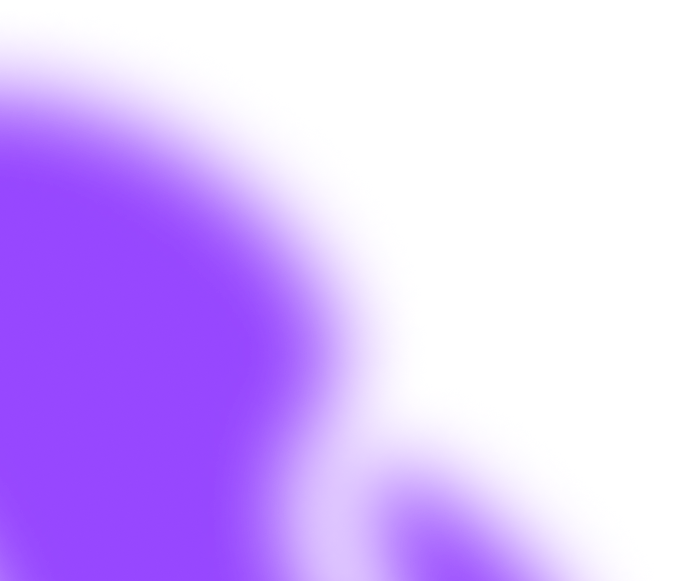
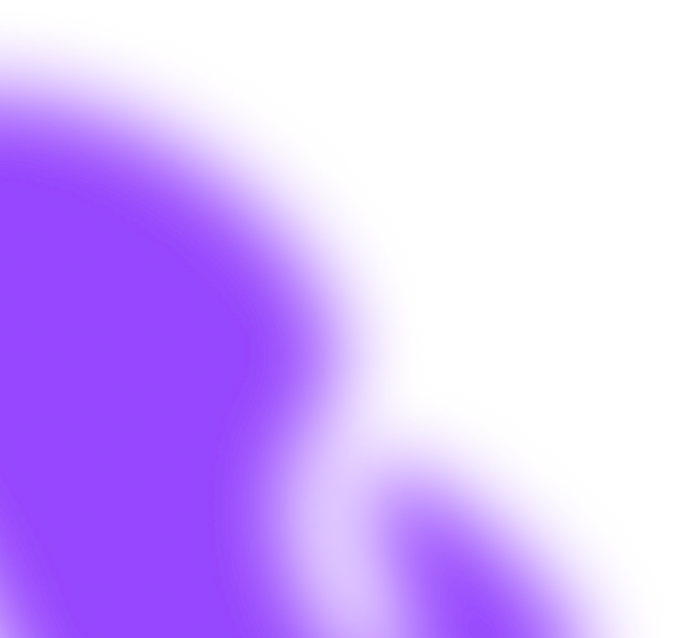
responsive update

diff --git a/src/app/portfolio-head/portfolio-head.component.scss b/src/app/portfolio-head/portfolio-head.component.scss
@@ -56,7 +56,7 @@ section {
 
 .green-shadow3 {
     position: absolute;
-    top: 1250px;
+    top: 1500px;
     right: 0;
 }
 
@@ -79,9 +79,7 @@ section {
     }
 
     .green-shadow3 {
-        height: 600px;
         top: 1300px;
-        right: 0;
     }
 }
 
@@ -123,6 +121,23 @@ section {
             margin: 0 25px;
             text-align: center;
         }
+    }
+
+    .purple-shadow3 {
+        width: 450px;
+        height: 450px;
+        position: absolute;
+        filter: blur(20px);
+        top: 1360px;
+        left: -40px;
+        pointer-events: none;
+    }
+    
+    .green-shadow3 {
+        height: 550px;
+        position: absolute;
+        top: 2170px;
+        right: 0;
     }
 }
 
@@ -176,20 +191,18 @@ section {
     }
 
     .purple-shadow3 {
-        width: 342px;
-        height: 342px;
-        position: absolute;
-        filter: blur(20px);
-        top: 1300px;
+        width: 430px;
+        height: 430px;
+        top: 1430px;
         left: 50%;
         transform: translateX(-50%);
-        pointer-events: none;
+        overflow: hidden;
     }
     
     .green-shadow3 {
-        height: 429px;
+        height: 430px;
         position: absolute;
-        top: 1760px;
+        top: 2500px;
         right: 0;
     }
 }

diff --git a/src/app/privacy-policy/privacy-policy.component.html b/src/app/privacy-policy/privacy-policy.component.html
@@ -21,8 +21,8 @@
     <p>Sie können sich jederzeit mit einer Beschwerde an eine Aufsichtsbehörde wenden, z. B. an die zuständige
         Aufsichtsbehörde des Bundeslands Ihres Wohnsitzes oder an die für uns als verantwortliche Stelle zuständige
         Behörde.</p>
-    <p>Eine Liste der Aufsichtsbehörden (für den nichtöffentlichen Bereich) mit Anschrift finden Sie unter: <a
-            href="https://www.bfdi.bund.de/DE/Service/Anschriften/Laender/Laender-node.html" target="_blank"
+    <p>Eine Liste der Aufsichtsbehörden (für den nichtöffentlichen Bereich) mit Anschrift finden Sie unter: <a class="bfdi-link"
+            href="https://www.bfdi.bund.de/DE/Service/>Anschriften/Laender/Laender-node.html" target="_blank"
             rel="noopener nofollow">https://www.bfdi.bund.de/DE/Service/Anschriften/Laender/Laender-node.html</a>.</p>
     <p></p>
     <h2>Erfassung allgemeiner Informationen beim Besuch unserer Website</h2>

diff --git a/src/app/footer/footer.component.scss b/src/app/footer/footer.component.scss
@@ -58,7 +58,7 @@ section {
 .codedby {
     color: white;
     font-size: 23px;
-    font-weight: 400px;
+    font-weight: 400;
 }
 
 .media-buttons {
@@ -76,6 +76,12 @@ section {
         &:hover {
             transform: scale(1.4);
         }
+    }
+}
+
+@media (max-width: 1200px) {
+    .codedby {
+        font-size: 16px;
     }
 }
 
@@ -110,18 +116,14 @@ section {
         justify-content: center;
         width: 100%;
         position: relative;
-        top: -40px;
+        top: -90px;
+        font-size: 23px;
     }
 
     .media-buttons {
         margin-right: 0;
         position: relative;
-        top: -75px;
-    }
-}
-
-@media (max-width: 1200px) {
-    .codedby {
-        font-size: 16px;
+        top: -125px;
+        height: max-content;
     }
 }

diff --git a/src/app/contact/contact.component.scss b/src/app/contact/contact.component.scss
@@ -319,7 +319,7 @@ section {
     overflow: hidden;
     position: absolute;
     left: 0;
-    top: 4880px;
+    top: 5200px;
     z-index: 0;
     pointer-events: none;
 }
@@ -380,7 +380,7 @@ section {
     .purple_shadow4 {
         height: 500px;
         left: -50px;
-        top: 5100px;
+        top: 5400px;
     }
 
     section {
@@ -434,7 +434,7 @@ section {
     .purple_shadow4 {
         height: 450px;
         left: -100px;
-        top: 5580px !important;
+        top: 6200px !important;
     }
 
     .container-contact-me {
@@ -475,9 +475,9 @@ section {
     }
 
     .purple_shadow4 {
-        width: 300px;
+        width: 330px;
         left: -100px;
-        top: 5100px !important;
+        top: 5900px !important;
     }
 
     .div-accept {

diff --git a/src/app/my-skills/my-skills.component.scss b/src/app/my-skills/my-skills.component.scss
@@ -198,8 +198,7 @@ $purple: #9747FF;
     }
 
     .green-shadow2 {
-        top: 680px !important;
-        height: 547.06px;
+        top: 540px !important;
         left: 0;
     }
 }
@@ -217,6 +216,7 @@ $purple: #9747FF;
     .get-in-touch {
         position: absolute;
         top: 280px;
+        margin-right: 25px;
         a {
             font-size: 16px;
         }
@@ -228,7 +228,7 @@ $purple: #9747FF;
         }
 
         p {
-            width: 430px;
+            width: 430px !important;
             padding-top: 0 !important;
             margin-right: 25px !important;
         }
@@ -297,4 +297,8 @@ $purple: #9747FF;
              font-weight: 700 !important;
          }
      }
+
+     .green-shadow2 {
+        height: 550px;
+    }
  }

diff --git a/src/app/homepage/homepage.component.html b/src/app/homepage/homepage.component.html
@@ -34,4 +34,14 @@
     [gitHubLink]="'https://github.com/Pierce-Chang/Pokedex'">
 </app-portfolio-projects>
 
+<app-portfolio-projects 
+    [imageUrl]="'/assets/img/pokedex_laptop.png'"
+    [title]="'Pokédex'"
+    [languages]="'JavaScript | HTML | CSS | API'"
+    [description]="'Based on the PokéAPI a simple library that provides and catalogues pokemon information.'"
+    [isReversed]="true"
+    [liveTestLink]="'https://pokedex.pierce-chang.de/'"
+    [gitHubLink]="'https://github.com/Pierce-Chang/Pokedex'">
+</app-portfolio-projects>
+
 <app-contact id="contact"></app-contact>

diff --git a/src/app/about-me/about-me.component.scss b/src/app/about-me/about-me.component.scss
@@ -6,7 +6,7 @@ $purple: #9747FF;
     position: relative;
     display: flex;
     justify-content: space-between;
-    padding-top: 120px;
+    padding-top: 130px;
 
     .about-me {
         width: 470px;
@@ -110,7 +110,6 @@ $purple: #9747FF;
     }
 
     .purple-shadow2 {
-        width: 200px;
         top: -80px;
         right: 0;
     }
@@ -168,9 +167,8 @@ $purple: #9747FF;
 
     .purple-shadow2 {
         position: absolute;
-        top: -10px;
+        top: -80px;
         filter: blur(26px);
-        width: 200px;
     }
 }
 

diff --git a/src/app/privacy-policy/privacy-policy.component.scss b/src/app/privacy-policy/privacy-policy.component.scss
@@ -12,3 +12,30 @@ section {
         color: #70E61C;
     }
 }
+
+.bfdi-link {
+    word-wrap: break-word;
+}
+
+@media (max-width: 800px) {
+    section {
+        padding: 50px 20px;
+
+        h1 {
+            font-size: 30px;
+            height: 60px;
+        }
+
+        h2 {
+            font-size: 24px;
+        }
+
+        p {
+            font-size: 16px;
+        }
+
+        a {
+            font-size: 16px;
+        }
+    }
+}

diff --git a/src/app/impressum/impressum.component.scss b/src/app/impressum/impressum.component.scss
@@ -27,3 +27,25 @@ section {
         }
     }
 }
+
+@media (max-width: 800px) {
+    section {
+        padding: 50px 20px;
+
+        h1 {
+            font-size: 60px;
+        }
+
+        h2 {
+            font-size: 40px;
+        }
+
+        p {
+            font-size: 20px;
+        }
+
+        a {
+            font-size: 20px;
+        }
+    }
+}

diff --git a/src/app/portfolio-projects/portfolio-projects.component.scss b/src/app/portfolio-projects/portfolio-projects.component.scss
@@ -8,11 +8,11 @@ section {
     justify-content: center;
     align-items: center;
     margin-top: -60px;
-    padding: 0 100px;
+    padding: 40px 100px;
     gap: 120px;
 
     img {
-        padding: 0 110px;
+        padding: 0 80px;
         width: 450px;
         position: relative;
         z-index: 1;
